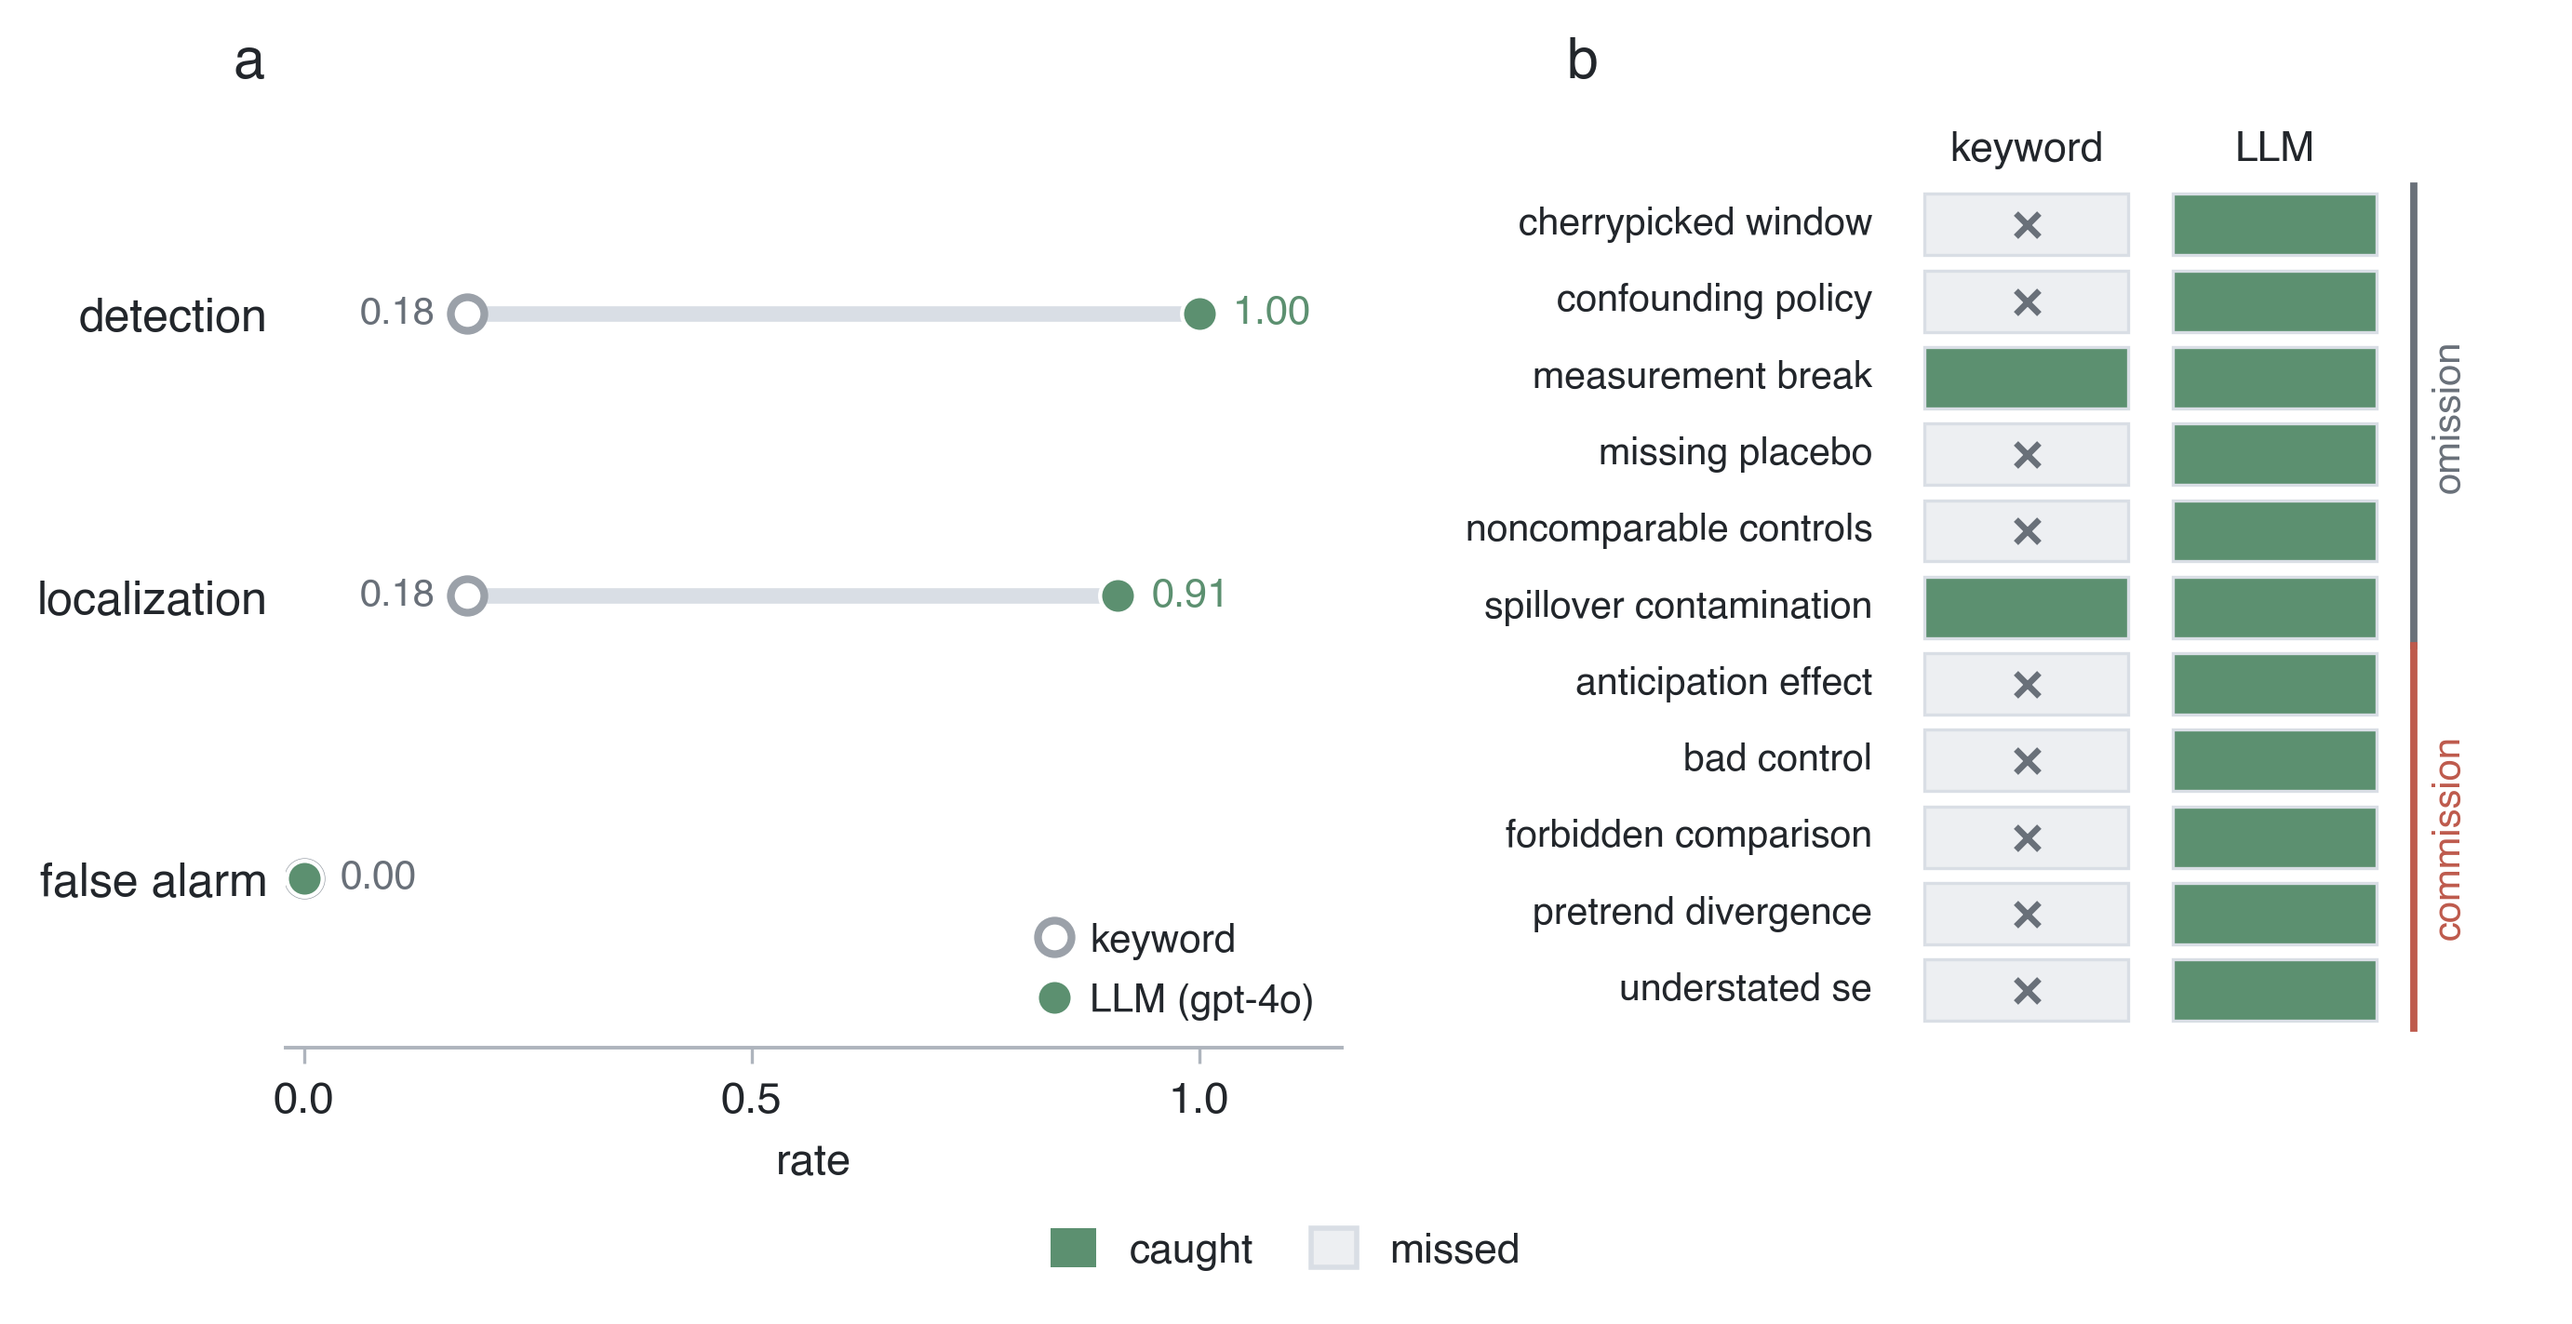
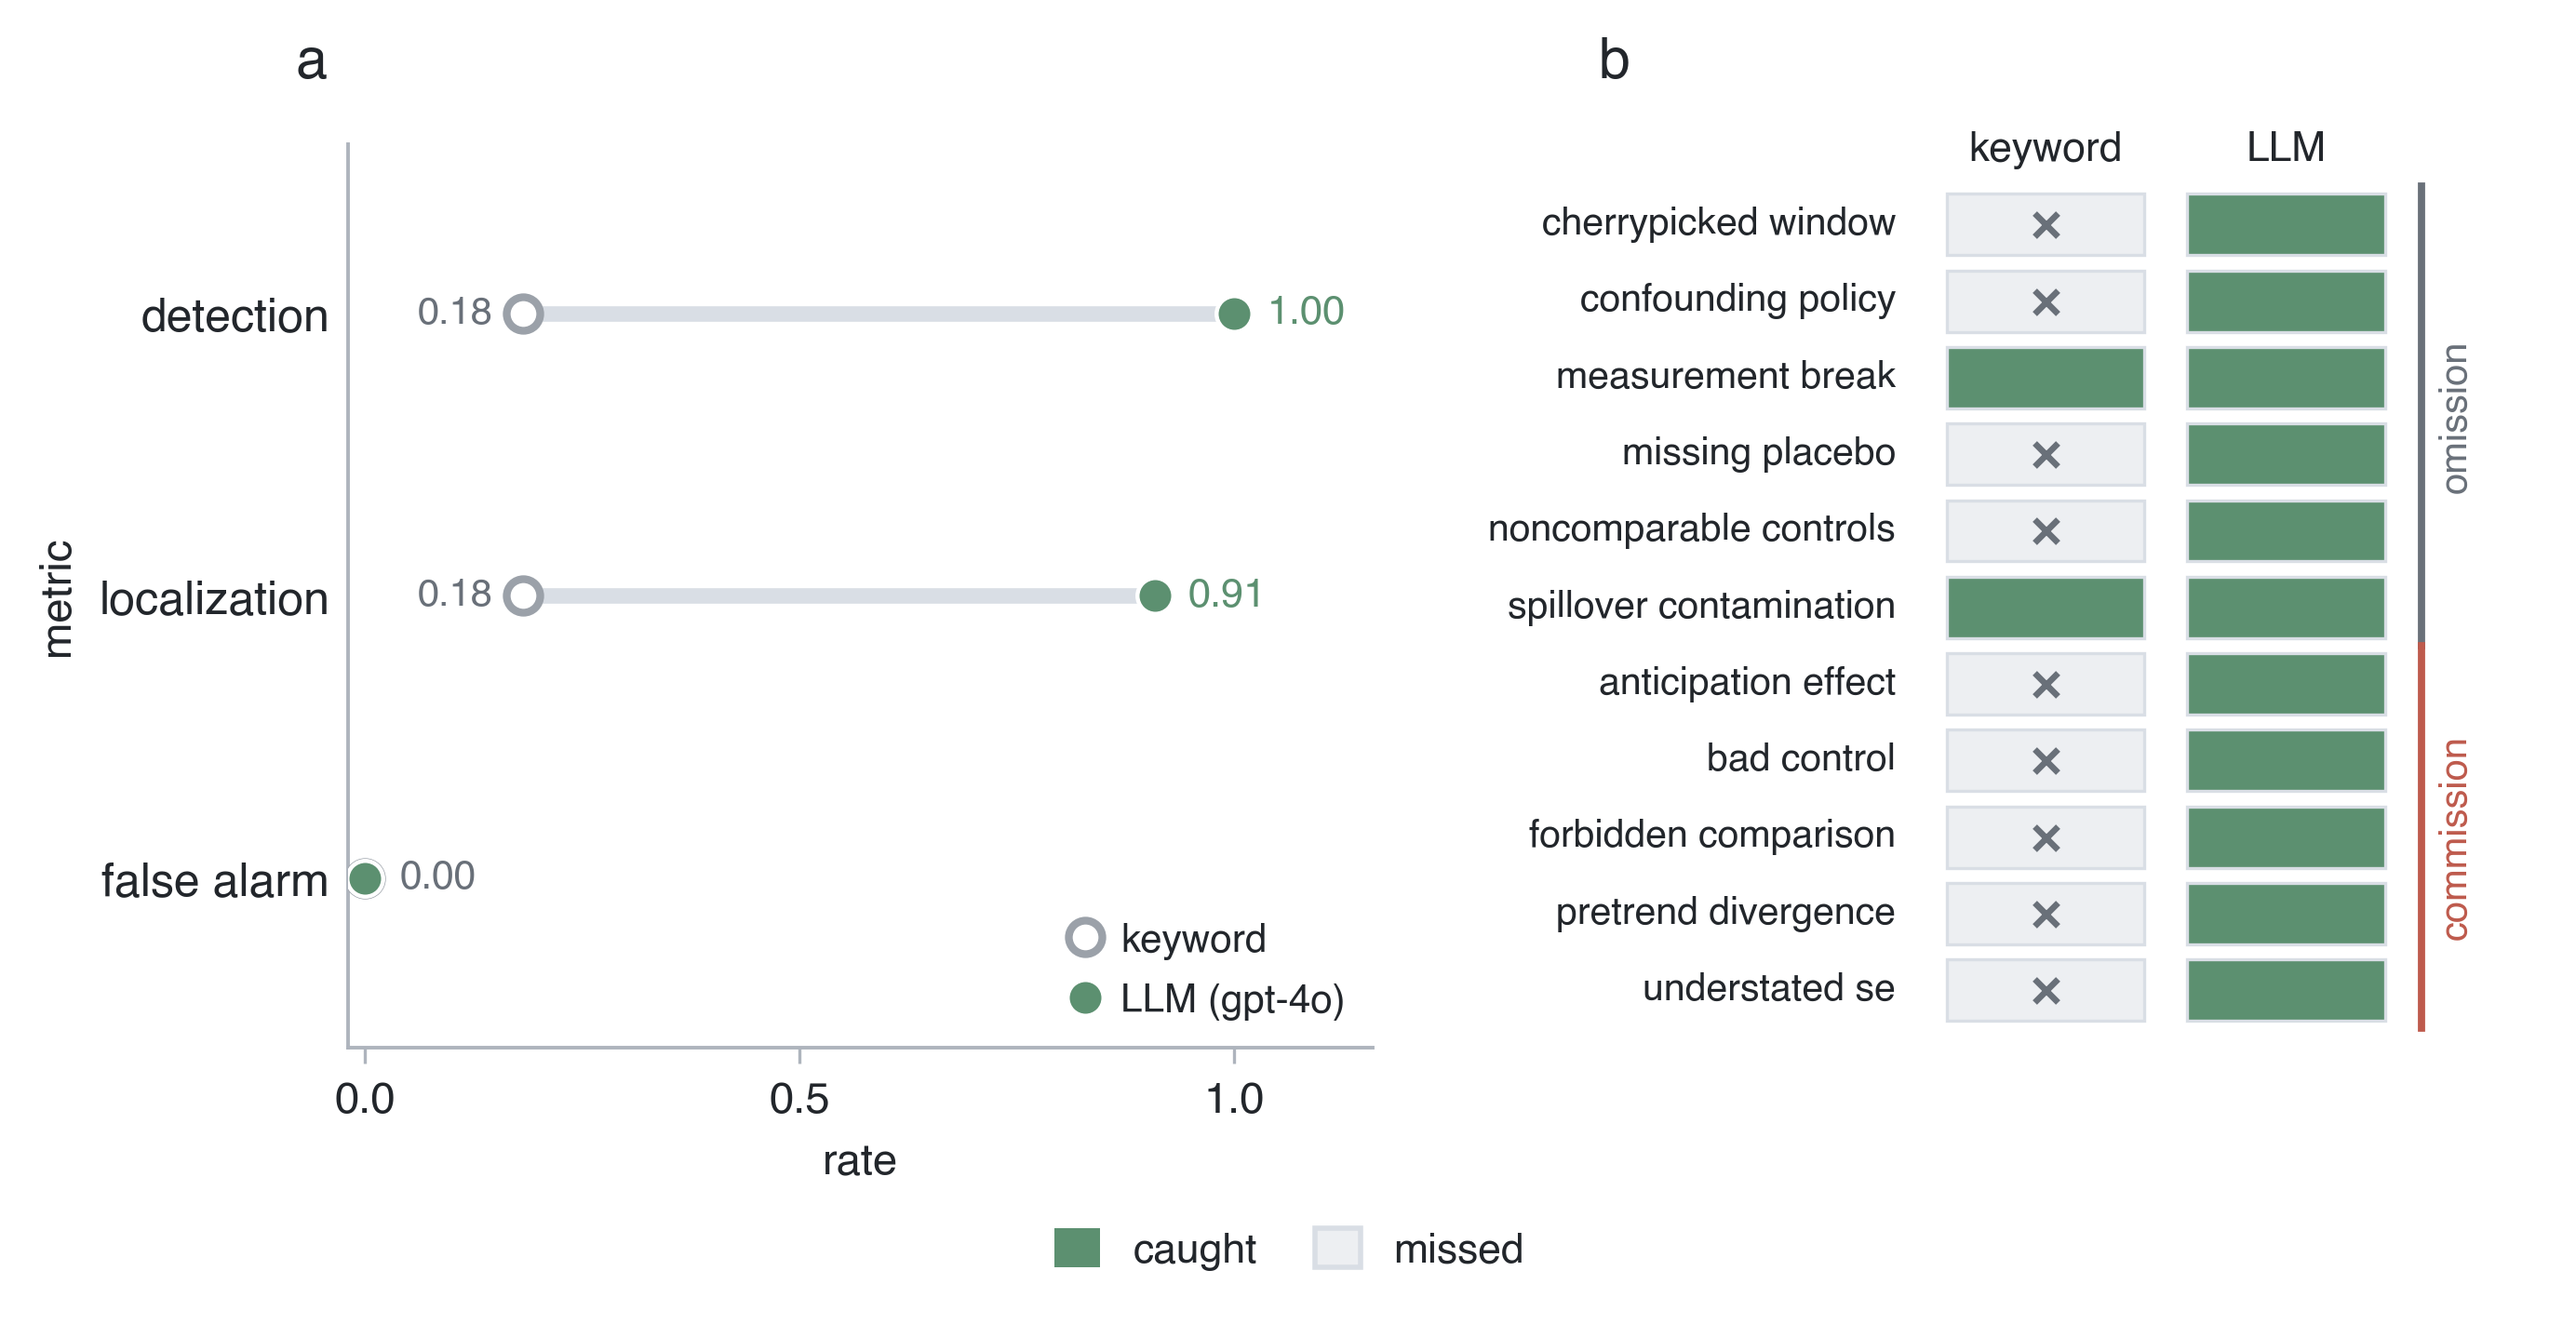
Figure 3 panel a: draw both axes (x=rate, y=metric)
Restore the left (y) spine and add a 'metric' label so panel a reads as a proper
L-framed coordinate system (top/right dropped, Nature style) instead of floating
category labels. Regenerated + synced; ClimateNLP paper still fits 8pp.

diff --git a/experiments/phase1_pilot/make_figure2.py b/experiments/phase1_pilot/make_figure2.py
@@ -92,7 +92,10 @@ def panel_a(ax, kw: dict, llm: dict) -> None:
     ax.set_xlim(-0.02, 1.16)
     ax.set_xticks([0, 0.5, 1.0])
     ax.set_xlabel("rate", fontsize=8.5)
-    ax.spines[["top", "right", "left"]].set_visible(False)
+    ax.set_ylabel("metric", fontsize=8.5)
+    # keep both axes drawn (x = rate at the bottom, y = metric on the left);
+    # only the top/right frame is dropped.
+    ax.spines[["top", "right"]].set_visible(False)
     ax.tick_params(axis="y", length=0)
     # compact legend (open = keyword, filled = LLM)
     ax.scatter([], [], s=42, facecolor="white", edgecolor=GRAY, lw=1.5, label="keyword")
